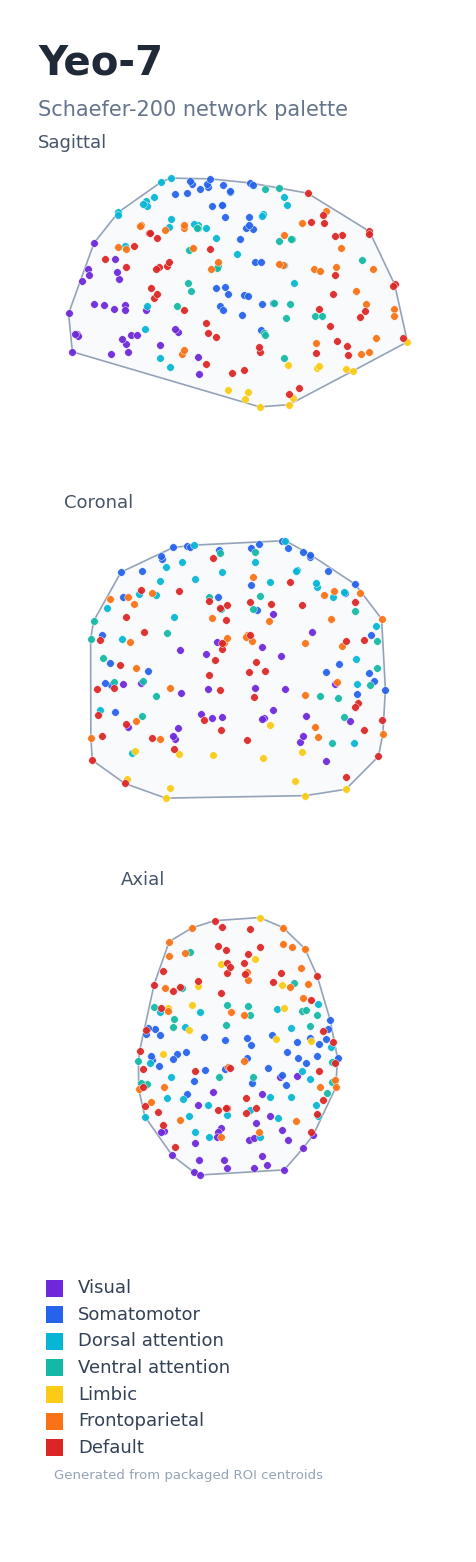
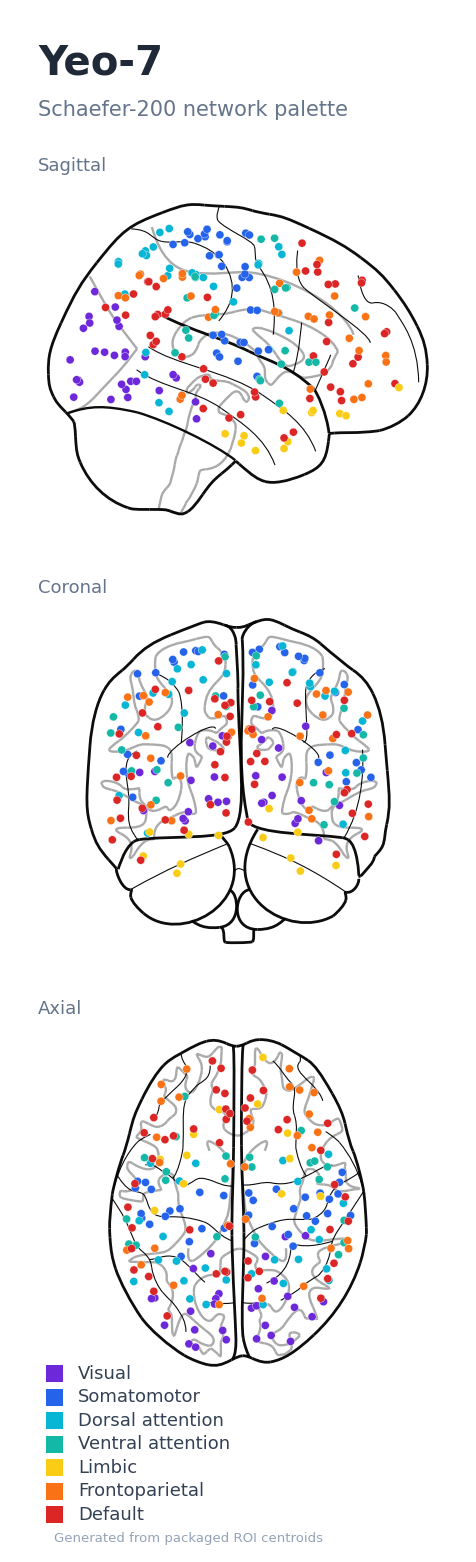
Render Schaefer palettes with Nilearn glass brains

diff --git a/scripts/generate_schaefer_sidebar_palettes.py b/scripts/generate_schaefer_sidebar_palettes.py
@@ -4,10 +4,9 @@
 from pathlib import Path
 
 import matplotlib.pyplot as plt
-from matplotlib.patches import Polygon
-import numpy as np
 import pandas as pd
-from scipy.spatial import ConvexHull
+import numpy as np
+from nilearn.plotting import plot_connectome
 
 
 ROOT = Path(__file__).resolve().parents[1]
@@ -31,58 +30,51 @@ NETWORK_ALIASES = {
     "Cont": "Frontoparietal",
 }
 PROJECTIONS = [
-    ("Sagittal", "y", "z"),
-    ("Coronal", "x", "z"),
-    ("Axial", "x", "y"),
+    ("Sagittal", "x"),
+    ("Coronal", "y"),
+    ("Axial", "z"),
 ]
 
 
-def _draw_projection(ax, atlas: pd.DataFrame, title: str, horizontal: str, vertical: str, marker_size: float) -> None:
-    points = atlas[[horizontal, vertical]].to_numpy()
-    hull = ConvexHull(points)
-    outline = points[hull.vertices]
-    ax.add_patch(
-        Polygon(outline, closed=True, facecolor="#F8FAFC", edgecolor="#94A3B8", linewidth=1.2, zorder=0)
+def _draw_projection(fig, rect, atlas: pd.DataFrame, display_mode: str, marker_size: float) -> None:
+    ax = fig.add_axes(rect)
+    coords = atlas[["x", "y", "z"]].to_numpy()
+    node_colors = [NETWORK_COLORS[network] for network in atlas["network"]]
+    plot_connectome(
+        np.zeros((len(atlas), len(atlas))),
+        coords,
+        node_color=node_colors,
+        node_size=marker_size,
+        display_mode=display_mode,
+        figure=fig,
+        axes=ax,
+        title=None,
+        annotate=False,
+        black_bg=False,
+        alpha=0.95,
+        colorbar=False,
+        node_kwargs={"edgecolors": "white", "linewidths": 0.25},
     )
-
-    for network in NETWORK_ORDER:
-        subset = atlas.loc[atlas["network"] == network]
-        ax.scatter(
-            subset[horizontal],
-            subset[vertical],
-            s=marker_size,
-            color=NETWORK_COLORS[network],
-            edgecolors="white",
-            linewidths=0.35,
-            alpha=0.94,
-            zorder=2,
-        )
-
-    x_span = np.ptp(points[:, 0])
-    y_span = np.ptp(points[:, 1])
-    ax.set_xlim(points[:, 0].min() - x_span * 0.09, points[:, 0].max() + x_span * 0.09)
-    ax.set_ylim(points[:, 1].min() - y_span * 0.09, points[:, 1].max() + y_span * 0.09)
-    ax.set_aspect("equal")
-    ax.set_title(title, loc="left", fontsize=13, color="#475569", pad=7)
-    ax.axis("off")
 
 
 def create_palette(n_rois: int) -> Path:
     atlas = pd.read_csv(ATLAS_DIR / f"schaefer{n_rois}_yeo7.csv")
     atlas["network"] = atlas["network"].replace(NETWORK_ALIASES)
-    marker_size = {100: 52, 200: 30, 400: 15}[n_rois]
+    marker_size = {100: 55, 200: 34, 400: 18}[n_rois]
 
     fig = plt.figure(figsize=(4.77, 15.62), dpi=100, facecolor="white")
-    fig.subplots_adjust(left=0.08, right=0.92, top=0.91, bottom=0.05, hspace=0.26)
-    grid = fig.add_gridspec(4, 1, height_ratios=[1, 1, 1, 0.7])
 
     fig.text(0.08, 0.972, "Yeo-7", fontsize=29, fontweight="bold", color="#1F2937", va="top")
     fig.text(0.08, 0.936, f"Schaefer-{n_rois} network palette", fontsize=15, color="#64748B", va="top")
 
-    for index, (title, horizontal, vertical) in enumerate(PROJECTIONS):
-        _draw_projection(fig.add_subplot(grid[index]), atlas, title, horizontal, vertical, marker_size)
+    for rect, (title, display_mode) in zip(
+        ([0.08, 0.66, 0.84, 0.22], [0.08, 0.39, 0.84, 0.22], [0.08, 0.12, 0.84, 0.22]),
+        PROJECTIONS,
+    ):
+        _draw_projection(fig, rect, atlas, display_mode, marker_size)
+        fig.text(rect[0], rect[1] + rect[3] + 0.008, title, fontsize=13, color="#64748B", va="bottom")
 
-    legend_ax = fig.add_subplot(grid[3])
+    legend_ax = fig.add_axes([0.08, 0.01, 0.84, 0.12])
     legend_ax.axis("off")
     for index, network in enumerate(NETWORK_ORDER):
         y = 0.92 - index * 0.125
